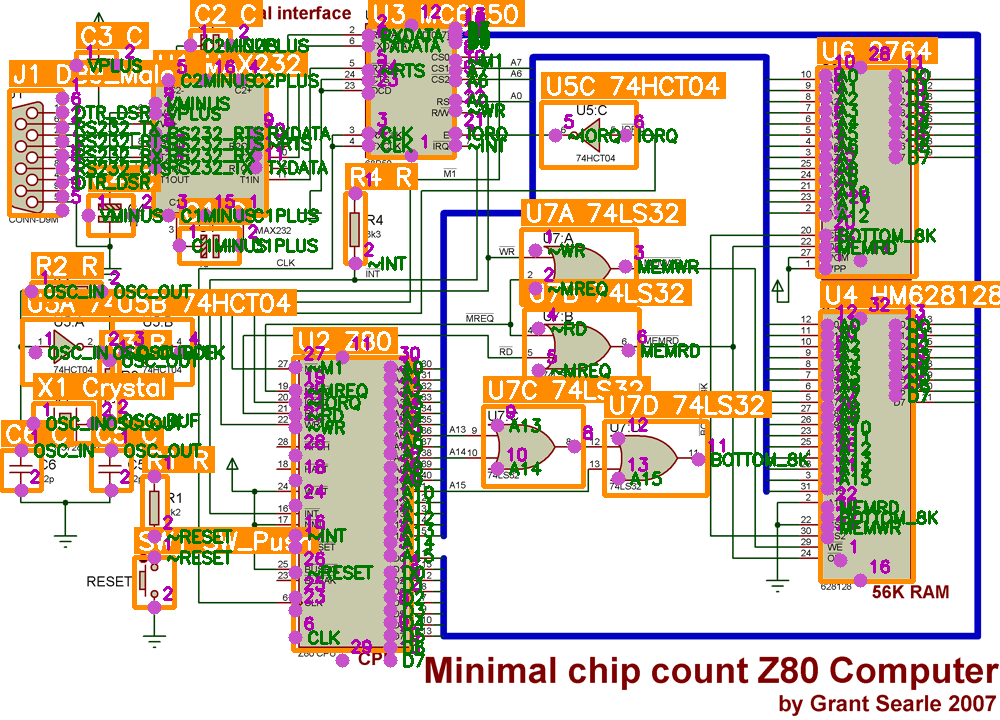
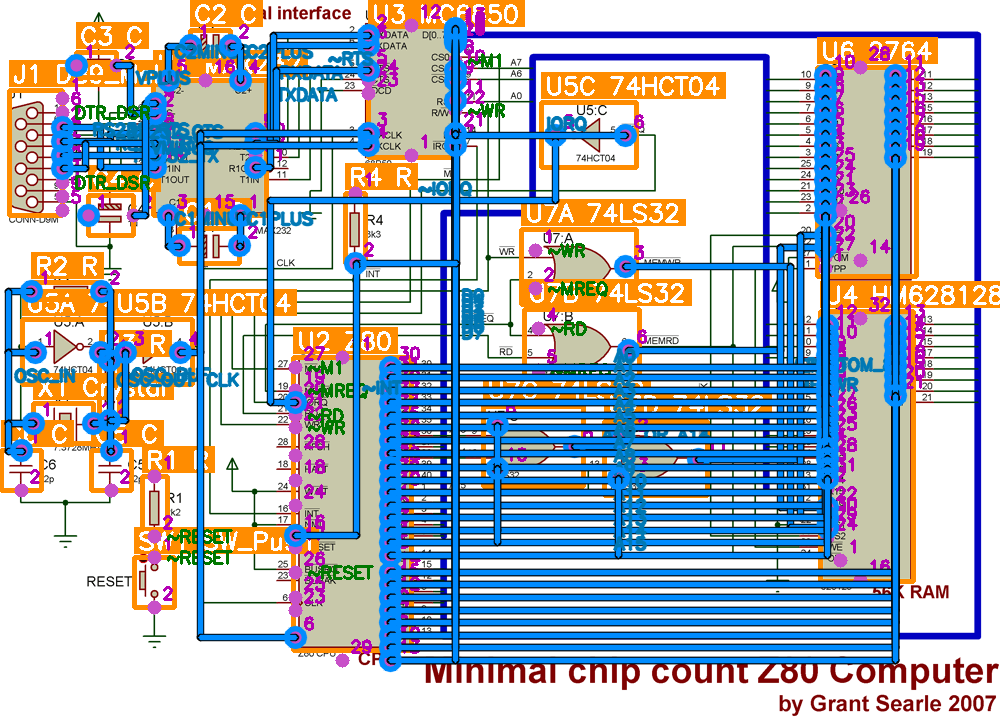
overlay + explorer: right-angle wires (matches KiCad exporter)
Two web views were drawing wires inconsistently with the KiCad export:

  - graph_cli render-overlay (the static PNG): didn't draw wires at
    all. A comment claimed "wires will get drawn lines if/when wire
    mode is wired up" — never happened.
  - explorer drawNets (JS canvas): drew straight pin-to-pin lines
    when no net.path was set, producing diagonals where the KiCad
    export uses the one-corner Manhattan fallback.

Both now build the polyline the same way the kicad_export does for
wire-typed nets:
  1. If net.path is set, use those right-angle corners verbatim.
  2. Else fall back to H-then-V Manhattan via a corner at
     (other.x, anchor.y) for each pair of endpoints.

For label / sheet_zone / off_page nets, behaviour is unchanged: the
net name still renders at every endpoint pin position, no connecting
line (the label IS the connection).

The static overlay now also draws endpoint rings on wire-typed pins
and a net-name label on the longest segment of the routed path
(trunk position, away from pins) — matches what the JS canvas shows.

Result: KiCad render, render-overlay PNG, and the live explorer
canvas all agree on what wires look like. z80_sbc sheet 1 in
particular now shows the address/data buses as right-angle traces
in every view.

diff --git a/.agents/skills/explorer/static/main.js b/.agents/skills/explorer/static/main.js
@@ -405,9 +405,30 @@ function drawNets() {
     // falling back to a straight pin-to-pin line. Path coords are in source
     // pixels, same as pin positions.
     if (points.length >= 2 && (state.showWires || isSelected)) {
-      const pathPts = (net.path && net.path.length >= 2)
-        ? net.path.map(p => imgToCanvas(p[0], p[1]))
-        : points.map(p => imgToCanvas(p.pos[0], p.pos[1]));
+      // Build the polyline:
+      //   - if net.path is set, use those corners (right-angle routed by
+      //     the path-tracer);
+      //   - else if wire-typed, fall back to the same one-corner Manhattan
+      //     route the KiCad exporter uses (H-then-V via a corner) so the
+      //     overlay matches what KiCad renders;
+      //   - otherwise straight pin-to-pin (label-style nets).
+      let pathPts;
+      const isWire = points[0].ep.edge_type === "wire";
+      if (net.path && net.path.length >= 2) {
+        pathPts = net.path.map(p => imgToCanvas(p[0], p[1]));
+      } else if (isWire) {
+        pathPts = [];
+        const anchor = points[0].pos;
+        pathPts.push(imgToCanvas(anchor[0], anchor[1]));
+        for (let i = 1; i < points.length; i++) {
+          const other = points[i].pos;
+          // H-then-V: corner at (other.x, anchor.y) in source coords.
+          pathPts.push(imgToCanvas(other[0], anchor[1]));
+          pathPts.push(imgToCanvas(other[0], other[1]));
+        }
+      } else {
+        pathPts = points.map(p => imgToCanvas(p.pos[0], p.pos[1]));
+      }
 
       // Dark halo for contrast against white paper.
       ctx.strokeStyle = isSelected ? "rgba(255,204,51,0.85)" : "rgba(0,0,0,0.6)";

diff --git a/.agents/skills/schematic-graph/graph_cli.py b/.agents/skills/schematic-graph/graph_cli.py
@@ -772,27 +772,72 @@ def cmd_render_overlay(args):
                 cv2.putText(out, str(pin), (px + 8, py - 8),
                             cv2.FONT_HERSHEY_SIMPLEX, 0.55, (180, 0, 180), 2)
 
-    # Net labels — for each label/sheet_zone/off_page net, draw the net name
-    # at every endpoint pin position. Skips pure-wire nets so the overlay
-    # doesn't get cluttered (those will get drawn lines if/when wire mode
-    # is wired up).
+    # Nets:
+    #   - wire-typed: draw the polyline (net.path when present, otherwise a
+    #     straight pin-to-pin line as a fallback). Matches what the KiCad
+    #     export emits and what the live explorer's drawNets renders.
+    #   - label / sheet_zone / off_page: draw the net name at every endpoint
+    #     pin position. No connecting line (the label IS the connection).
     if not args.no_nets:
         comp_by_ref = {c["refdes"]: c for c in components}
+
+        def _pin_xy(refdes, pin):
+            comp = comp_by_ref.get(refdes)
+            if not comp: return None
+            pos = (comp.get("pin_positions") or {}).get(str(pin))
+            return (int(pos[0]), int(pos[1])) if pos else None
+
         for net in graph.get("nets", []):
-            for ep in net.get("endpoints", []):
-                if ep.get("sheet") != args.sheet:
-                    continue
-                if ep.get("edge_type") not in ("label", "sheet_zone", "off_page"):
-                    continue
-                comp = comp_by_ref.get(ep.get("refdes"))
-                if not comp:
-                    continue
-                pos = (comp.get("pin_positions") or {}).get(str(ep.get("pin")))
-                if not pos:
-                    continue
-                px, py = int(pos[0]), int(pos[1])
-                cv2.putText(out, net["name"], (px + 12, py + 6),
-                            cv2.FONT_HERSHEY_SIMPLEX, 0.55, (0, 120, 0), 2)
+            eps_on_sheet = [e for e in net.get("endpoints", []) if e.get("sheet") == args.sheet]
+            if not eps_on_sheet: continue
+            edge = eps_on_sheet[0].get("edge_type")
+
+            if edge == "wire":
+                # Routed polyline if present, else one-corner Manhattan
+                # fallback (H-then-V via a corner) per pair of endpoints —
+                # matches what the KiCad exporter emits, so the overlay and
+                # the KiCad render agree on wire routing.
+                color = (255, 140, 0)  # BGR: orange-blue (cyan-ish)
+                segments = []  # list of (a, b) point pairs to draw
+                if net.get("path") and len(net["path"]) >= 2:
+                    pts = [(int(p[0]), int(p[1])) for p in net["path"]]
+                    for i in range(1, len(pts)):
+                        segments.append((pts[i-1], pts[i]))
+                else:
+                    anchor = _pin_xy(eps_on_sheet[0]["refdes"], eps_on_sheet[0]["pin"])
+                    if anchor:
+                        for other_ep in eps_on_sheet[1:]:
+                            other = _pin_xy(other_ep["refdes"], other_ep["pin"])
+                            if not other: continue
+                            corner = (other[0], anchor[1])
+                            segments.append((anchor, corner))
+                            segments.append((corner, other))
+                # Draw with a dark halo for legibility against the source ink.
+                for a, b in segments:
+                    cv2.line(out, a, b, (0, 0, 0), 6, cv2.LINE_AA)
+                    cv2.line(out, a, b, color, 3, cv2.LINE_AA)
+                pts = [seg[0] for seg in segments] + ([segments[-1][1]] if segments else [])
+                # Endpoint markers (ring) at each on-sheet pin endpoint.
+                for ep in eps_on_sheet:
+                    xy = _pin_xy(ep["refdes"], ep["pin"])
+                    if xy:
+                        cv2.circle(out, xy, 9, color, 3, cv2.LINE_AA)
+                # Net name on the longest segment (trunk) when a path exists.
+                if net.get("name") and len(pts) >= 2:
+                    longest_i, longest_len = 1, 0
+                    for i in range(1, len(pts)):
+                        d = (pts[i][0]-pts[i-1][0])**2 + (pts[i][1]-pts[i-1][1])**2
+                        if d > longest_len: longest_len, longest_i = d, i
+                    mx = (pts[longest_i-1][0] + pts[longest_i][0]) // 2 + 6
+                    my = (pts[longest_i-1][1] + pts[longest_i][1]) // 2 - 6
+                    cv2.putText(out, net["name"], (mx, my),
+                                cv2.FONT_HERSHEY_SIMPLEX, 0.55, (180, 120, 0), 2, cv2.LINE_AA)
+            elif edge in ("label", "sheet_zone", "off_page"):
+                for ep in eps_on_sheet:
+                    xy = _pin_xy(ep["refdes"], ep["pin"])
+                    if not xy: continue
+                    cv2.putText(out, net["name"], (xy[0] + 12, xy[1] + 6),
+                                cv2.FONT_HERSHEY_SIMPLEX, 0.55, (0, 120, 0), 2)
 
     # Optional resize so a 9k×6k overlay doesn't gobble RAM when read back.
     if args.max_width and W > args.max_width:
